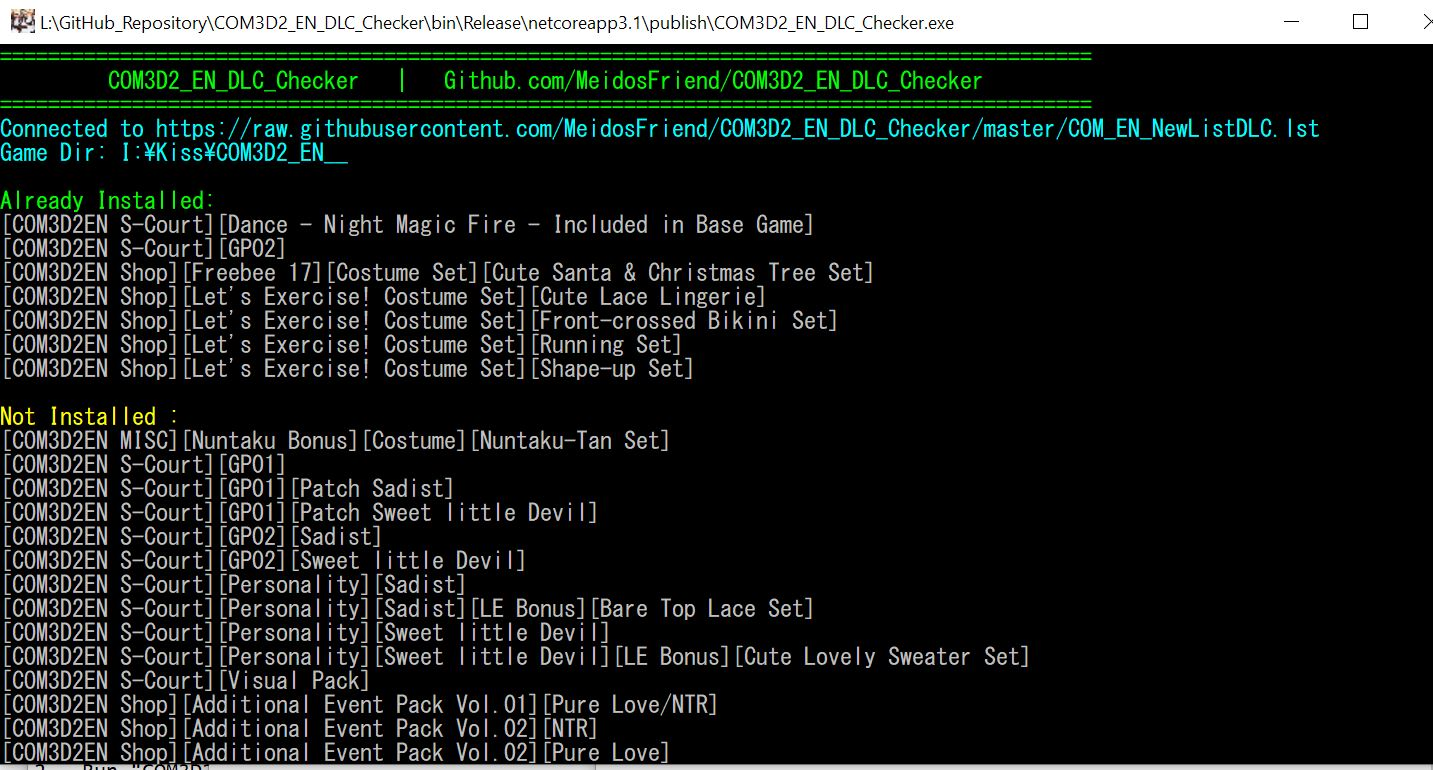
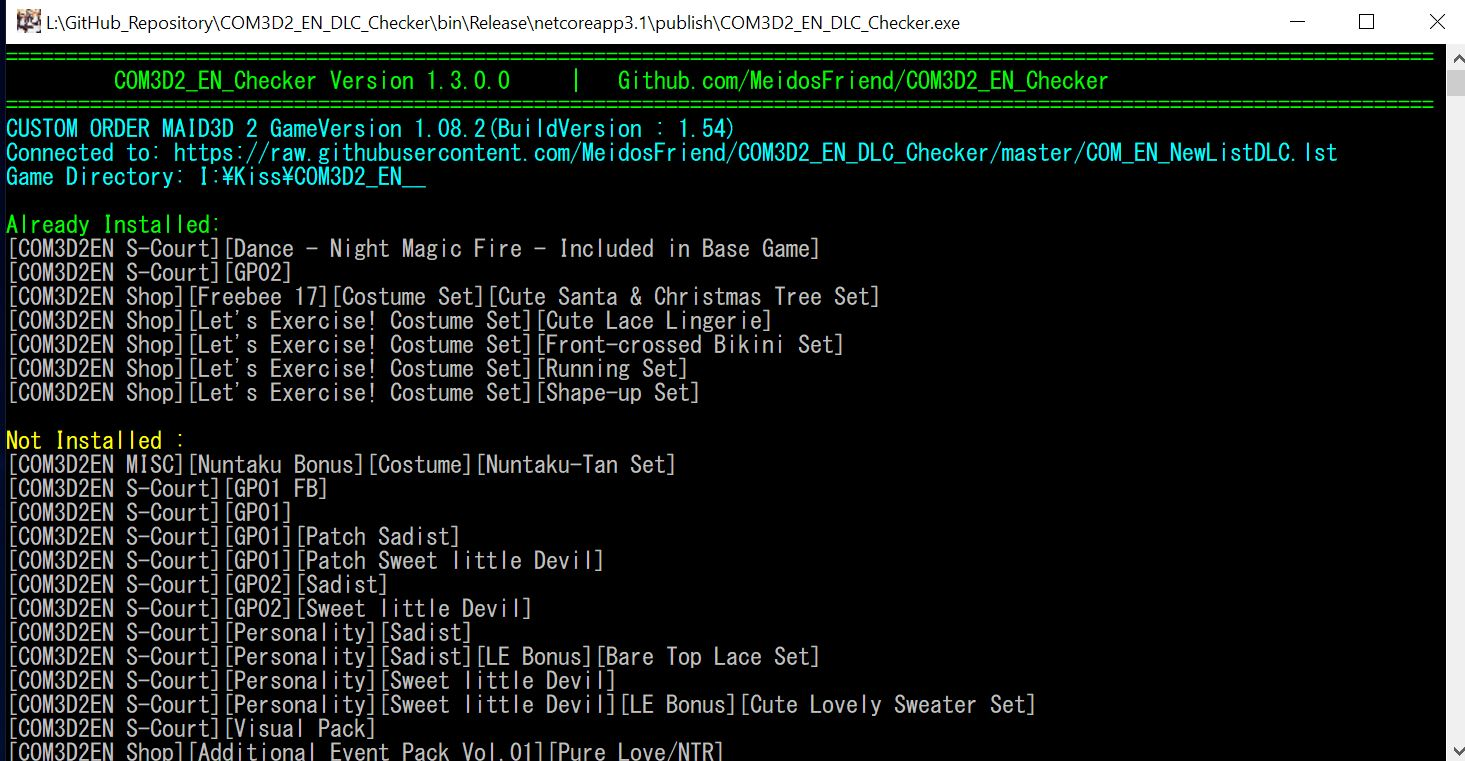
Version Info

Changed region(s): [[0.0, 0.0, 1.0, 1.0]]

diff --git a/Program.cs b/Program.cs
@@ -23,12 +23,13 @@ namespace DLC_Checker
         static readonly string DLC_LIST_PATH = MyData.GetDLC_LIST_PATH();
         static readonly string GAME_HEADER = MyData.GetGAME_HEADER();
         static readonly string DLC_URL = MyData.GetDLC_URL();
-        static readonly string GAME_DIRECTORY = GET_GAME_INSTALLPATH();
-
+        
         static readonly string UseCurrentDir = MyData.GetUseCurrentDir().ToUpper();
         static readonly string UpdateListFile = MyData.GetUpdateListFile().ToUpper();
         static readonly string MyDLCListFile = MyData.GetMyDLCListFile().ToUpper();
         static readonly string UseMyURL = MyData.GetUseMyURL().ToUpper();
+
+        static readonly string GAME_DIRECTORY = GET_GAME_INSTALLPATH();
 
         static void Main(string[] args)
         {

diff --git a/README.md b/README.md
@@ -1,4 +1,4 @@
-# COM3D2 English DLC Checker V.1.1
+# COM3D2 English DLC Checker V1.3
 
 ![](Screen_1.jpg)
 App that checking which one DLC have been installed and not.
@@ -40,6 +40,10 @@ UseCurrentDir=No
 UpdateListFile=Yes
 MyDLCListFile=No
 
+[CustomURL]
+MyURL=https://my.url
+UseMyURL=No
+
 ---------
 UseCurrentDir
 - If set to "No" The game directory is read from the registry (only valid when game is installed) (Default)
@@ -53,5 +57,8 @@ MyDLCListFile
 - If set to "No", the standard listfile is used (Default)
 - If set to "Yes", you can build a listfile from scratch, using another name. This means you can switch between 2 configurations
 ----------
+
+Custom URl
+Here you can set an url to a valid listfile - should I retire some day :-)
 
 Hint: If you screwed up your listfile or ini file, simply delete them... 
